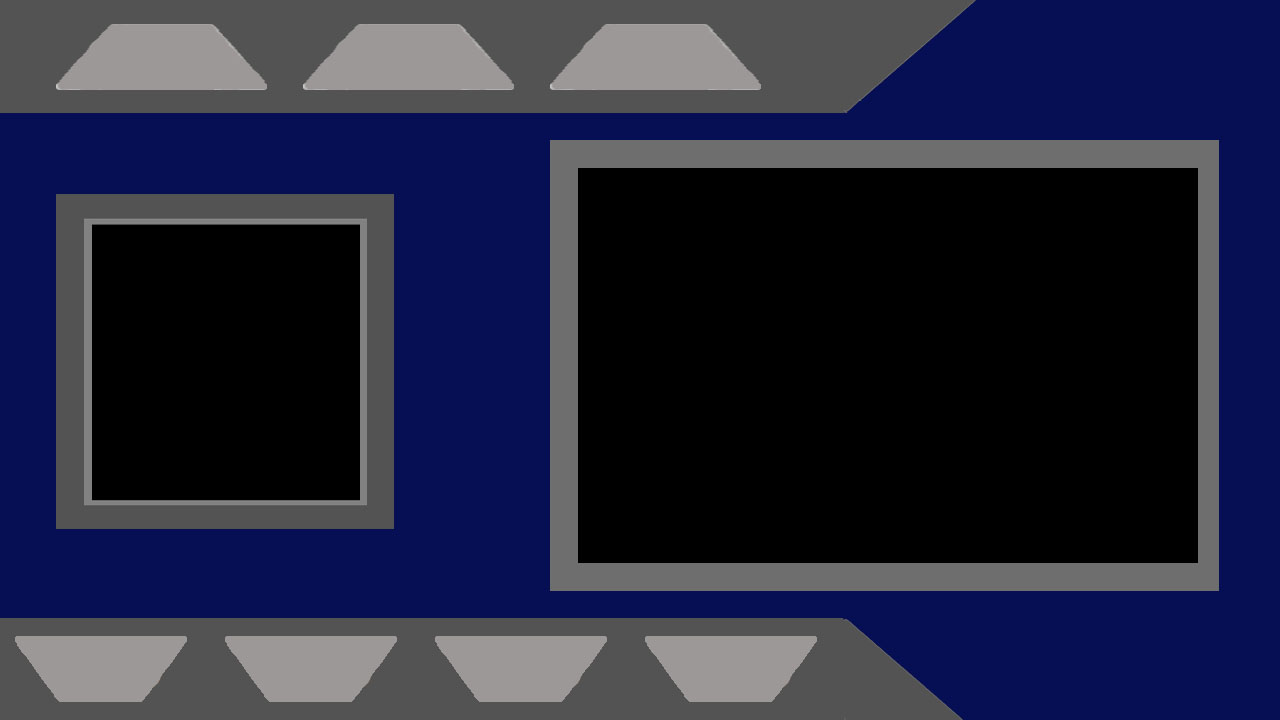
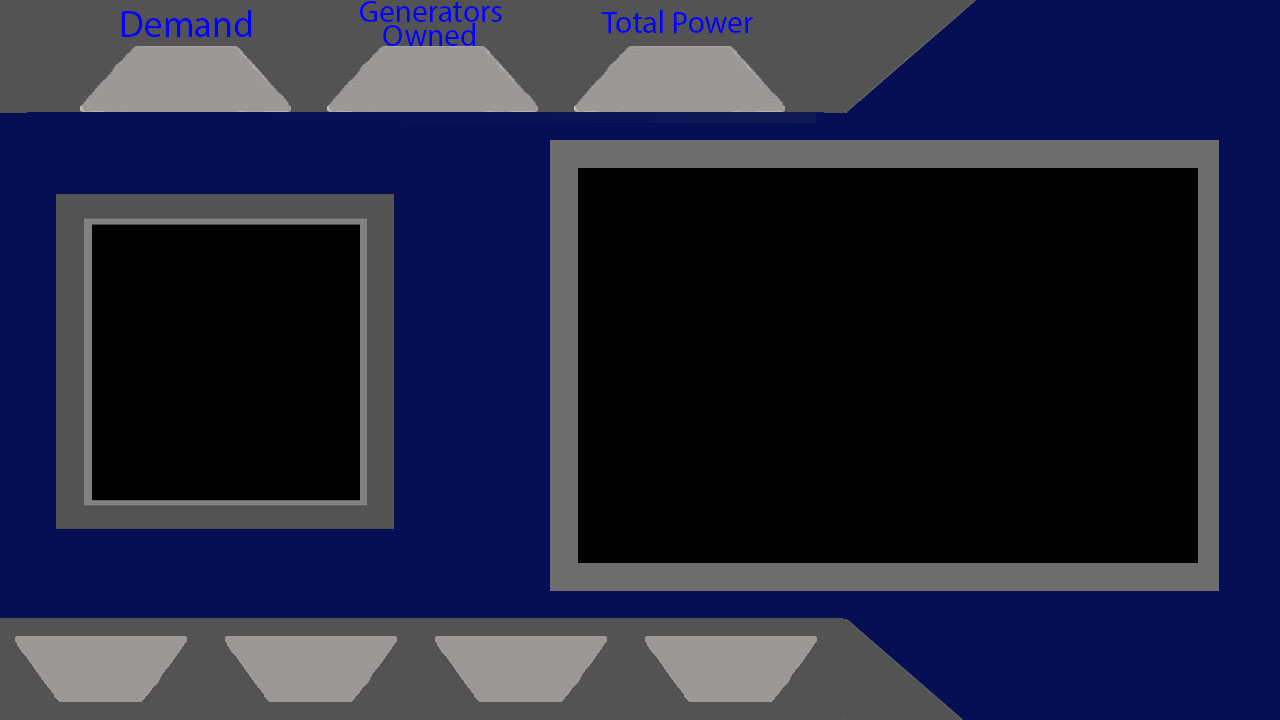
made new buttons
the new buttons are lable as yellow buttons they serve no unctions yet ill work on them tonight

Changed region(s): [[0.0312, 0.0, 0.625, 0.1833]]

diff --git a/finalProject1.5/finalProjectV1.5 (use this one).py b/finalProject1.5/finalProjectV1.5 (use this one).py
@@ -4,7 +4,7 @@ import pygame
 from pygame.locals import*
 import random
 import sys
-import colors
+from colors import *
 
 #---------Start constants---------
 fontName = pygame.font.match_font('Arial')
@@ -22,15 +22,13 @@ malfunction = random.randrange(1,11)
 POWER_OUTPUT = 0.00
 inventory = []
 citySize = 0
-BACKROUND_COLOR = (0,0,0)
-YELLOW = (255,255,0)
-WHITE = (255,255,255)
+generator = pygame.image.load("power generator1.jpg")
 
 
 
 #---------end game function----------
 #-------------load pic---------------
-generator = pygame.image.load("power generator1.jpg")
+
 
 def buyNewGenerator():
     #TODO
@@ -78,12 +76,12 @@ def boxes(color, cords1, cords2, size1, sizes2):
 
 
 window = pygame.display.set_mode([WIDTH,LENGTH])
-#window.fill(BACKROUND_COLOR)
+#window.fill(BLACK)
 displayTextB = pygwidgets.DisplayText(window, (20, 400), 'Here is some display text', \
-                                    fontSize=24, textColor=YELLOW, backgroundColor=BACKROUND_COLOR)
+                                    fontSize=24, textColor=YELLOW, backgroundColor=BLACK)
 
 inputTextA = pygwidgets.InputText(window, (20, 100), 'Default input text',\
-                                    textColor=WHITE, backgroundColor=BACKROUND_COLOR,
+                                    textColor=WHITE, backgroundColor=BLACK,
                                     fontSize=24, width=250)
 
 
@@ -95,9 +93,9 @@ inputTextB = pygwidgets.InputText(window, (20, 200), initialFocus=True,\
 
 
 
-box1rect = pygame.Rect(100,10,250,100) #button placement
+box1rect = pygame.Rect(550,600,250,100) #button placement
 ##box_1 = pygame.draw.rect(window, YELLOW, box1rect) # these are the boxes i have placed
-##box_2 = pygame.draw.rect(window, YELLOW, [280,10,250,100])
+
 ##box_3 = pygame.draw.rect(window, YELLOW, [550,10,250,100]) 
 ##box_4 = pygame.draw.rect(window, YELLOW, [10,600,250,100]) 
 ##box_5 = pygame.draw.rect(window, YELLOW, [280,600,250,100])
@@ -107,6 +105,14 @@ box1rect = pygame.Rect(100,10,250,100) #button placement
 ##box_1_centery = box_1.centery
 ##
 #texts('button', 30, WHITE, 100, 100)
+
+
+box1rect = pygame.Rect(50,640,100,50)
+box2rect = pygame.Rect(260,640,100,50)
+box3rect = pygame.Rect(470,640,100,50)
+box4rect = pygame.Rect(680,640,100,50)
+
+
 
 restartButton = pygwidgets.CustomButton(window, (1000,50), \
                                     'images/RestartButtonUp.png',
@@ -125,10 +131,10 @@ clock = pygame.time.Clock()
 
 pygame.display.update()
 clock.tick(FRAME_RATE)
-
+generator.convert_alpha()
 
 counter = 0
-
+box2rect = pygame.Rect(0,0,0,0)
 while True:
 
     for event in pygame.event.get():
@@ -142,10 +148,11 @@ while True:
                 box2 = boxes(WHITE,300,300,30,30)
                 box2rect = pygame.Rect(300,300,30,30)
             if box2rect.collidepoint(event.pos):
-                clearbox = boxes(BACKROUND_COLOR,300,300,30,30)
+                clearbox = boxes(BLACK,300,300,30,30)
                 print('second box was clicked')
                 box2rect = pygame.Rect(0,0,0,0)
-                window.blit(generator, (150, 250)) 
+                window.blit(generator, (150, 250))
+            
                 
                 
 
@@ -157,8 +164,9 @@ while True:
 
         if restartButton.handleEvent(event):  # clicked
             counter = 0
-            print('Content of first input text is:', inputTextA.getValue())
-            print('Content of second input text is:', inputTextB.getValue())
+           #print('Content of first input text is:', inputTextA.getValue())
+           # print('Content of second input text is:', inputTextB.getValue())
+           
     
   
 
@@ -168,7 +176,13 @@ while True:
     #window.blit(generator, (150, 250)) 
     counter = counter + 1
     restartButton.draw()
-    texts('button', 60, WHITE, 100,10)
+    texts('button', 60, WHITE, 100,500)
+    box_1 = pygame.draw.rect(window, YELLOW, [50,640,100,50])
+    box_2 = pygame.draw.rect(window, YELLOW, [260,640,100,50])
+    box_3 = pygame.draw.rect(window, YELLOW, [470,640,100,50])
+    box_4 = pygame.draw.rect(window, YELLOW, [680,640,100,50])
+
+    
     pygame.display.update()
     #window.blit(backgroundImage, (0, 0))
     clock.tick(FRAME_RATE)    
